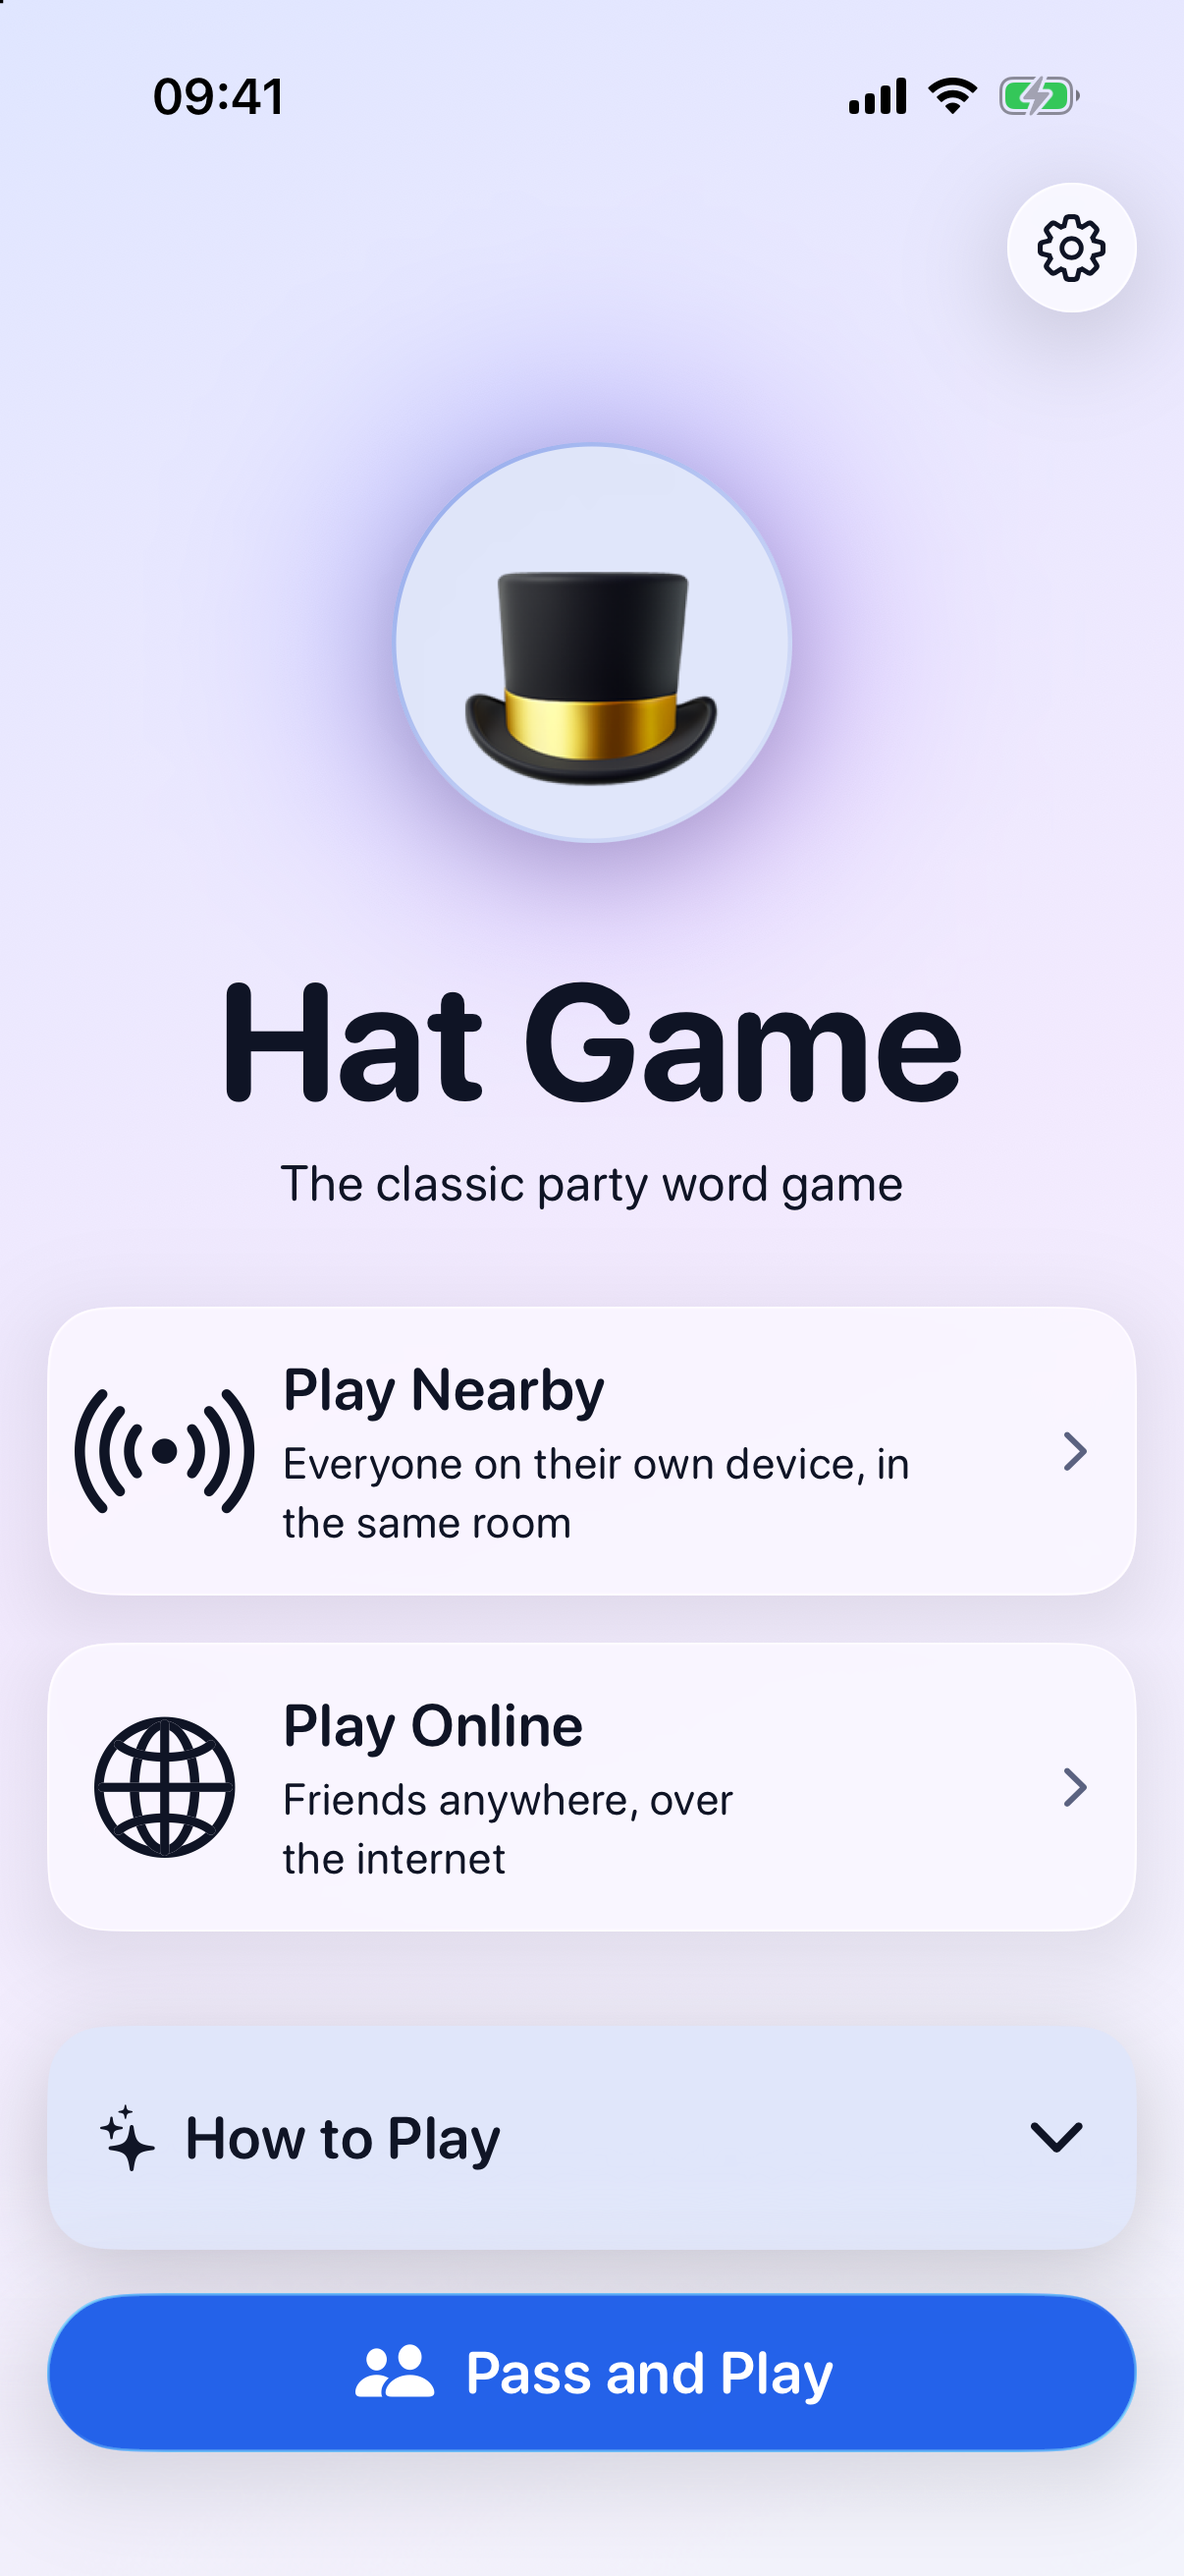
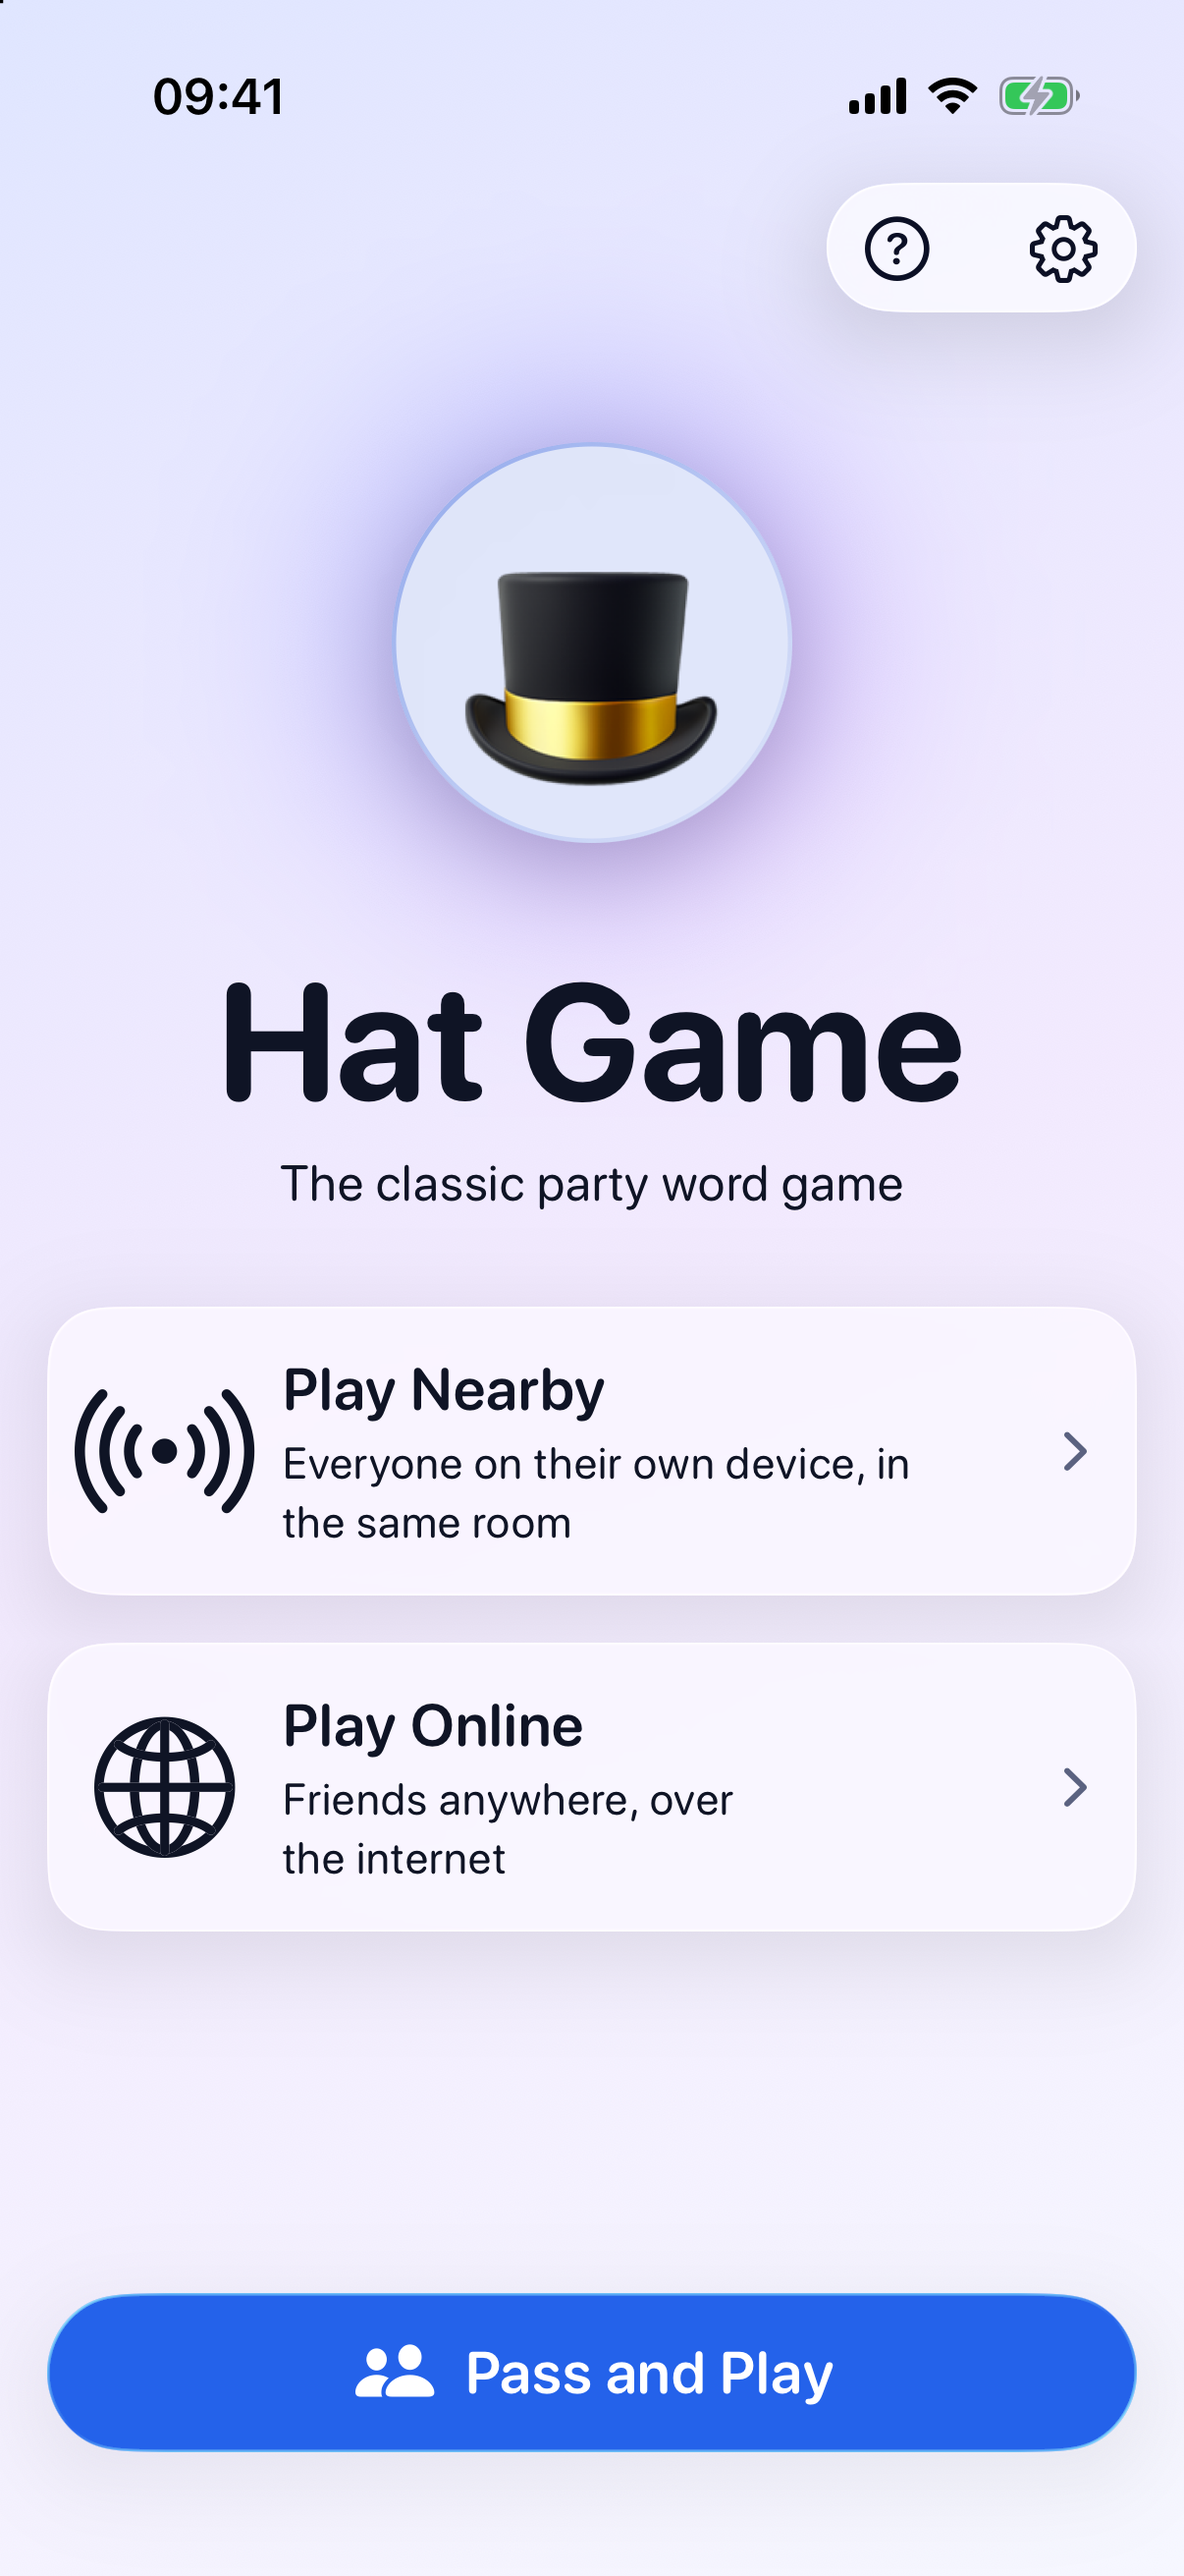
feat: open How to Play from Home's toolbar as a sheet
The card on Home becomes a question-mark toolbar item beside Settings,
which presents the rules in a view-only sheet through the root
navigator, at half or full height with the standard Close.

diff --git a/HatGame/HatGame/View/Home/HomeView.swift b/HatGame/HatGame/View/Home/HomeView.swift
@@ -12,8 +12,6 @@ import SwiftUI
 struct HomeView: View {
     @Environment(Navigator.self) private var navigator
     @Environment(\.accessibilityReduceMotion) private var reduceMotion
-    @SceneStorage("HomeView.howToPlay.expanded.v2") private var isHowToPlayExpanded: Bool = false
-    @AppStorage("HomeView.hasSeenHowToPlay") private var hasSeenHowToPlay: Bool = false
     @State private var isHeroFloating: Bool = false
     /// The single-device game saved mid-play, offered for resuming.
     @State private var savedGame: GameState?
@@ -28,7 +26,7 @@ struct HomeView: View {
             .background {
                 heroBackdrop.ignoresSafeArea()
             }
-            .toolbar { settingsToolbar }
+            .toolbar { homeToolbar }
             .haptic(.warning, trigger: discardedGames)
             .uiTestDeepLink(navigator)
             // Re-check whenever a flow closes: it may have saved, finished, or replaced a game.
@@ -76,7 +74,6 @@ private extension HomeView {
                         .transition(reduceMotion ? .opacity : .move(edge: .top).combined(with: .opacity))
                 }
                 multiDeviceModes
-                howToPlayCard
                 Spacer().frame(height: DesignBook.Spacing.xl)
             }
         }
@@ -84,17 +81,6 @@ private extension HomeView {
             actionButtons
         }
         .onAppear {
-            #if DEBUG
-            // Snapshots need the same Home every launch: no first-run expansion.
-            if UITestConfiguration.screen != nil {
-                isHowToPlayExpanded = false
-                hasSeenHowToPlay = true
-            }
-            #endif
-            if !hasSeenHowToPlay {
-                hasSeenHowToPlay = true
-                isHowToPlayExpanded = true
-            }
             guard !reduceMotion else { return }
             #if DEBUG
             if UITestConfiguration.disablesAnimations { return }
@@ -206,25 +192,6 @@ private extension HomeView {
         )
     }
 
-    var howToPlayCard: some View {
-        FoldableCard(
-            isExpanded: $isHowToPlayExpanded,
-            title: localized("home.howToPlay.title"),
-            icon: "sparkles"
-        ) {
-            VStack(alignment: .leading, spacing: DesignBook.Spacing.md) {
-                ForEach(Array(instructions.enumerated()), id: \.offset) { index, instruction in
-                    InstructionRow(
-                        index: index + 1,
-                        icon: instruction.icon,
-                        text: instruction.text
-                    )
-                }
-            }
-        }
-        .paddingHorizontalDefault()
-    }
-
     /// The one primary action — Pass and Play — rides in the action bar,
     /// prominent unless a saved game's Resume already is.
     @ViewBuilder
@@ -281,14 +248,22 @@ private extension HomeView {
     }
 
     @ToolbarContentBuilder
-    var settingsToolbar: some ToolbarContent {
+    var homeToolbar: some ToolbarContent {
+        ToolbarItem(placement: .trailingAction) {
+            Button {
+                navigator.presentSheet(.howToPlay)
+            } label: {
+                Label(localized("home.howToPlay.title"), systemImage: "questionmark.circle")
+            }
+            .help(localized("home.howToPlay.title"))
+            .accessibilityIdentifier("home.howToPlay")
+        }
         ToolbarItem(placement: .trailingAction) {
             Button {
                 navigator.push(.settings)
             } label: {
-                Image(systemName: "gearshape")
+                Label(localized("common.buttons.settings"), systemImage: "gearshape")
             }
-            .accessibilityLabel(Text(localized("common.buttons.settings")))
             .help(localized("common.buttons.settings"))
         }
     }
@@ -300,18 +275,6 @@ private extension HomeView {
         } else {
             isOverwriteConfirmationPresented = true
         }
-    }
-
-    var instructions: [(icon: String, text: String)] {
-        [
-            (icon: "person.2.fill", text: localized("home.instructions.createTeams")),
-            (icon: "text.bubble.fill", text: localized("home.instructions.addWords")),
-            (icon: "shuffle.circle.fill", text: localized("home.instructions.randomize")),
-            (icon: "1.circle.fill", text: localized("home.instructions.round1")),
-            (icon: "2.circle.fill", text: localized("home.instructions.round2")),
-            (icon: "3.circle.fill", text: localized("home.instructions.round3")),
-            (icon: "trophy.fill", text: localized("home.instructions.winner")),
-        ]
     }
 }
 

diff --git a/HatGame/HatGame/View/Home/HowToPlaySheet.swift b/HatGame/HatGame/View/Home/HowToPlaySheet.swift
@@ -1,0 +1,59 @@
+//
+//  HowToPlaySheet.swift
+//  HatGame
+//
+
+import DesignBook
+import SwiftUI
+
+/// The rules, opened from Home's toolbar: a view-only sheet, medium or
+/// large, closed with the standard Close (and Escape).
+struct HowToPlaySheet: View {
+    @Environment(\.dismiss) private var dismiss
+
+    var body: some View {
+        NavigationStack {
+            ScrollView {
+                VStack(alignment: .leading, spacing: DesignBook.Spacing.md) {
+                    ForEach(Array(Self.steps.enumerated()), id: \.offset) { index, step in
+                        InstructionRow(index: index + 1, icon: step.icon, text: localized(step.text))
+                    }
+                }
+                .paddingHorizontalDefault()
+                .padding(.vertical, DesignBook.Spacing.md)
+            }
+            .navigationTitle(localized("home.howToPlay.title"))
+            .inlineNavigationTitle()
+            .setDefaultBackground()
+            .toolbar {
+                CloseToolbarItem { dismiss() }
+            }
+        }
+        .controlTint()
+        // The glass sheet shows through at medium height; at large the
+        // system turns it opaque.
+        .environment(\.showsScreenBackground, false)
+        .presentationDetents([.medium, .large])
+        .accessibilityIdentifier("howToPlay.sheet")
+    }
+}
+
+// MARK: - Steps
+private extension HowToPlaySheet {
+    static let steps: [(icon: String, text: String.LocalizationValue)] = [
+        (icon: "person.2.fill", text: "home.instructions.createTeams"),
+        (icon: "text.bubble.fill", text: "home.instructions.addWords"),
+        (icon: "shuffle.circle.fill", text: "home.instructions.randomize"),
+        (icon: "1.circle.fill", text: "home.instructions.round1"),
+        (icon: "2.circle.fill", text: "home.instructions.round2"),
+        (icon: "3.circle.fill", text: "home.instructions.round3"),
+        (icon: "trophy.fill", text: "home.instructions.winner"),
+    ]
+}
+
+// MARK: - Preview
+#Preview {
+    Color.clear.sheet(isPresented: .constant(true)) {
+        HowToPlaySheet()
+    }
+}

diff --git a/HatGame/HatGame/View/TestingLab/HatGameBuildNotes.swift b/HatGame/HatGame/View/TestingLab/HatGameBuildNotes.swift
@@ -10,12 +10,25 @@ struct HatGameBuildNotes {
     let routes: LabRoutes
 
     var current: [BuildNote] {
-        [noSkip, haptics, copy, glass, colour, behaviour, accessibility]
+        [howToPlay, noSkip, haptics, copy, glass, colour, behaviour, accessibility]
     }
 }
 
 // MARK: - Notes
 private extension HatGameBuildNotes {
+    var howToPlay: BuildNote {
+        BuildNote(
+            commit: "pending",
+            title: lab("How to Play moves to the toolbar"),
+            howToTest: lab("""
+                Home no longer has the How to Play card. Tap the question mark beside Settings: the rules open \
+                in a sheet, half height or full, and Close or a swipe down puts it away.
+                """),
+            systemImage: "questionmark.circle",
+            color: .mint
+        ) { routes.howToPlay() }
+    }
+
     var noSkip: BuildNote {
         BuildNote(
             commit: "d52bf4f",

diff --git a/HatGame/HatGameUITests/HatGameUITests.swift b/HatGame/HatGameUITests/HatGameUITests.swift
@@ -15,6 +15,24 @@ final class HatGameUITests: XCTestCase {
     }
 
     @MainActor
+    func testHowToPlayOpensFromTheToolbarAndCloses() throws {
+        let app = XCUIApplication()
+        app.launchArguments = ["-uiTestResetState"]
+        app.launch()
+
+        let howToPlay = app.buttons["home.howToPlay"]
+        XCTAssertTrue(howToPlay.waitForExistence(timeout: 10))
+        howToPlay.tap()
+
+        let close = app.buttons["common.close"]
+        XCTAssertTrue(close.waitForExistence(timeout: 5), "the How to Play sheet didn't open")
+        XCTAssertTrue(app.staticTexts["How to Play"].exists)
+        close.tap()
+        XCTAssertTrue(howToPlay.waitForExistence(timeout: 5))
+        XCTAssertFalse(close.exists)
+    }
+
+    @MainActor
     func testEmptyingTheHatAdvancesToRoundTwo() throws {
         let app = launchIntoTestGame()
         let roundTitle = app.staticTexts["nextTeam.roundTitle"]

diff --git a/HatGame-Navigation/Sources/Navigation/FlowNavigationView.swift b/HatGame-Navigation/Sources/Navigation/FlowNavigationView.swift
@@ -30,6 +30,11 @@ public struct FlowNavigationView<RootContent: View>: View {
         }
         .environment(navigator)
         .environment(\.navZoomNamespace, zoomNamespace)
+        // Sheets the root's screens ask for, such as How to Play.
+        .sheet(item: $navigator.presentedSheet) { page in
+            page.view()
+                .environment(navigator)
+        }
         // Presented flows are deliberate (game setup, nearby, online). They are
         // full-screen covers on iOS (left only via their own controls) and
         // sheets on macOS, which has no full-screen cover.

diff --git a/HatGame/HatGame/View/TestingLab/LabRoutes.swift b/HatGame/HatGame/View/TestingLab/LabRoutes.swift
@@ -32,6 +32,17 @@ struct LabRoutes {
         present(.onlineFlow)
     }
 
+    /// Home with the How to Play sheet open. Waits for the lab's own sheet to
+    /// leave, since one host can't present two sheets at once.
+    func howToPlay() {
+        navigator.presentedPage = nil
+        navigator.navigationPath = []
+        Task {
+            try? await Task.sleep(for: .milliseconds(600))
+            navigator.presentSheet(.howToPlay)
+        }
+    }
+
     /// A started two-team, two-word game: the shortest way into a turn.
     func quickGame() {
         present(.uiTestGame)

diff --git a/HatGame/HatGame/Navigation/Page.swift b/HatGame/HatGame/Navigation/Page.swift
@@ -134,6 +134,12 @@ extension Page {
     // MARK: - Sheets
     /// Presented with `navigator.presentSheet`, never by the screen itself
     /// (constitution article 13).
+    static var howToPlay: Page<HowToPlaySheet> {
+        Page<HowToPlaySheet>(id: "howToPlay") {
+            HowToPlaySheet()
+        }
+    }
+
     static func addTeam(onCreate: @escaping (Team) -> Void) -> Page<AddTeamSheet> {
         Page<AddTeamSheet>(id: "addTeam") {
             AddTeamSheet(onCreate: onCreate)
